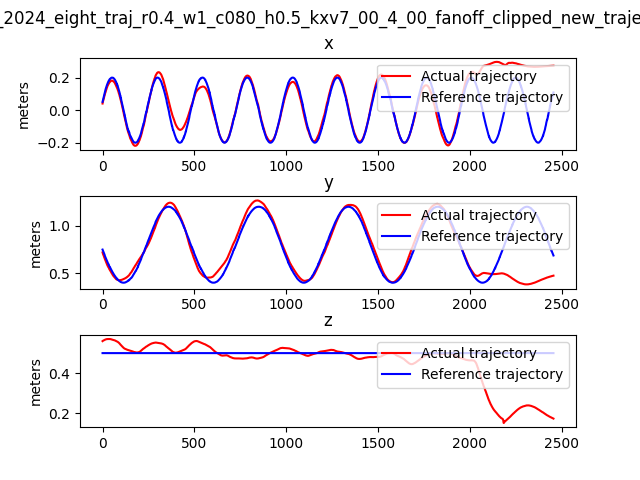
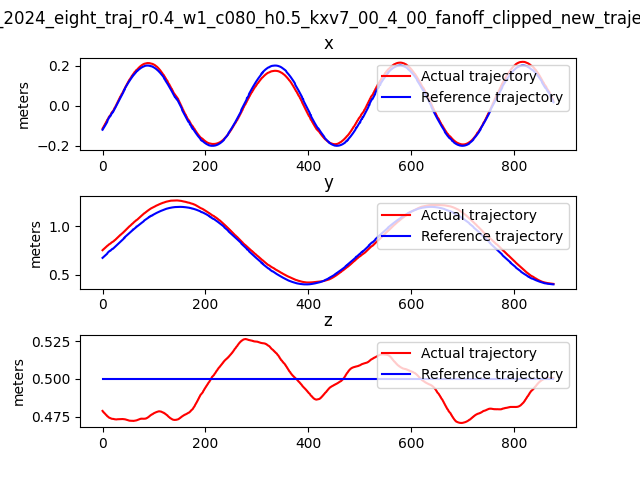
figure8 fanoff

diff --git a/GP/gp_advanced/animate_trajectory_individual.py b/GP/gp_advanced/animate_trajectory_individual.py
@@ -8,10 +8,10 @@ ax = fig.add_subplot(111, projection='3d')
 ax.set_xlim(-0.5,0.5)
 ax.set_ylim(0,1.1)
 ax.set_zlim(0,1)
-specifier = 'eight_traj_r0.4_w1_c080_h0.5_kxv15_16_7_47'
+specifier = 'eight_traj_r0.4_w1_c080_h0.5_kxv7_00_4_00_fanoff'
 ideal_array = np.load('compare_trajectory/figure8/ideal_trajectory_'+ specifier+'.npy')
-unoptimized_array = np.load('compare_trajectory/figure8/unoptimized_trajectory_eight_traj_r0.4_w1_c080_h0.5_kxv7_00_4_00.npy')
-optimized_array = np.load('compare_trajectory/figure8/optimized_trajectory_'+specifier+'.npy')
+unoptimized_array = np.load('compare_trajectory/figure8/unoptimized_trajectory_eight_traj_r0.4_w1_c080_h0.5_kxv7_00_4_00_fanoff.npy')
+# optimized_array = np.load('compare_trajectory/figure8/optimized_trajectory_'+specifier+'.npy')
 # x = np.linspace(0,5,5000)
 # y = np.ones(x.shape)
 # z = 5* np.ones(x.shape)
@@ -26,12 +26,12 @@ x = unoptimized_array[:,0][::slice]
 y = unoptimized_array[:,1][::slice]
 z = unoptimized_array[:,2][::slice]
 
-x_op = optimized_array[:,0][::slice]
-y_op = optimized_array[:,1][::slice]
-z_op = optimized_array[:,2][::slice]
+# x_op = optimized_array[:,0][::slice]
+# y_op = optimized_array[:,1][::slice]
+# z_op = optimized_array[:,2][::slice]
 # p  = ax.plot(x[0],y[0],z[0], 'r')#,c = 'b', s = 20)
 ideal_trajectory = ax.scatter(x_ideal[0], y_ideal[0], z_ideal[0], c='black', s= 20, marker = '^', label = 'reference trajectory')
-optimized_trajectory = ax.scatter(x_op[0], y_op[0], z_op[0], c='springgreen', s= 20, label = 'optimized trajectory')
+# optimized_trajectory = ax.scatter(x_op[0], y_op[0], z_op[0], c='springgreen', s= 20, label = 'optimized trajectory')
 trajectory = ax.scatter( x[0], y[0], z[0], c = 'brown', s=20, alpha = 0.5, label = 'unoptimized trajecotry')
 ax.legend()
 T = x.shape[0]
@@ -44,7 +44,7 @@ with writer.saving(fig, 'animated_plots/'+name, 100):
         #scatter
         trajectory._offsets3d = ( x[0:t+1],y[0:t+1], z[0:t+1] )
         ideal_trajectory._offsets3d = (x_ideal[0:t+1], y_ideal[0:t+1], z_ideal[0:t+1] )
-        optimized_trajectory._offsets3d = (x_op[0:t+1], y_op[0:t+1], z_op[0:t+1] )
+        # optimized_trajectory._offsets3d = (x_op[0:t+1], y_op[0:t+1], z_op[0:t+1] )
         # plot
         # p[0].set_xdata(x[0:t+1])
         # p[0].set_ydata(y[0:t+1])

diff --git a/GP/gp_advanced/plot_trajectory_ref.py b/GP/gp_advanced/plot_trajectory_ref.py
@@ -120,10 +120,10 @@ home_path = home_path.replace('circle_data', 'eight_data')
 # bag_path = home_path + '28_7_2024_eight_traj_r0.4_w1_c00_h0.5_kxv14_81_7_09_fanon_clipped_new'
 #(500,3200)
 # bag_path = home_path + '28_7_2024_eight_traj_r0.4_w1_c00_h0.5_kxv19_04_9_30_fanon_clipped_new'
-# bag_path = home_path + '28_7_2024_eight_traj_r0.4_w1_c080_h0.5_kxv7_00_4_00_fanoff_clipped_new'
+bag_path = home_path + '28_7_2024_eight_traj_r0.4_w1_c080_h0.5_kxv7_00_4_00_fanoff_clipped_new'
 # bag_path = home_path + '28_7_2024_eight_traj_r0.4_w1_c080_h0.5_kxv7_00_4_00_fanon_clipped_new'
 # (500, 4500)
-bag_path = home_path + '28_7_2024_eight_traj_r0.4_w1_c080_h0.5_kxv15_16_7_47_fanon_clipped_new'
+# bag_path = home_path + '28_7_2024_eight_traj_r0.4_w1_c080_h0.5_kxv15_16_7_47_fanon_clipped_new'
 # (500, 800)
 # bag_path = home_path + '28_7_2024_eight_traj_r0.4_w1_c080_h0.5_kxv18_56_9_45_fanon_clipped_new'
 # (500, 1200)
@@ -246,8 +246,8 @@ with Reader(bag_path) as reader:
 # print("z max: ", max(z_data))
 # print("z min: ", min(z_data))
 assert len(x_data) == len(y_data) == len(z_data), "Lengths of the lists are not the same."
-cutoff = len(x_data) - 800
-threshold = 00
+cutoff = len(x_data) - 1000
+threshold = 1200
 
 
 print("cutoff, threshold = ", cutoff, threshold)
@@ -262,14 +262,14 @@ z = np.array(z_data[threshold:cutoff])
 if save :
     stacked_array = np.column_stack((x,y,z))
     #'eight_traj_r0.4_w1_c080_h0.5_kxv7_00_4_00'
-    np.save('compare_trajectory/figure8/optimized_trajectory_eight_traj_r0.4_w1_c080_h0.5_kxv15_16_7_47.npy',stacked_array)
+    np.save('compare_trajectory/figure8/unoptimized_trajectory_eight_traj_r0.4_w1_c080_h0.5_kxv7_00_4_00_fanoff.npy',stacked_array)
 #print("size of x data is: ",x.shape)
 x_t = x_ideal = np.array(x_ideal[threshold:cutoff])
 y_t = y_ideal = np.array(y_ideal[threshold:cutoff])
 z_t = z_ideal = np.array(z_ideal[threshold:cutoff])
 if save : 
     stacked_array = np.column_stack((x_t,y_t,z_t))
-    np.save('compare_trajectory/figure8/ideal_trajectory_eight_traj_r0.4_w1_c080_h0.5_kxv15_16_7_47.npy',stacked_array)
+    np.save('compare_trajectory/figure8/ideal_trajectory_eight_traj_r0.4_w1_c080_h0.5_kxv7_00_4_00_fanoff.npy',stacked_array)
 # Scatter plot
 ax.set_zlim(0,1)
 ax.scatter(x, y, z, c= 'r')
